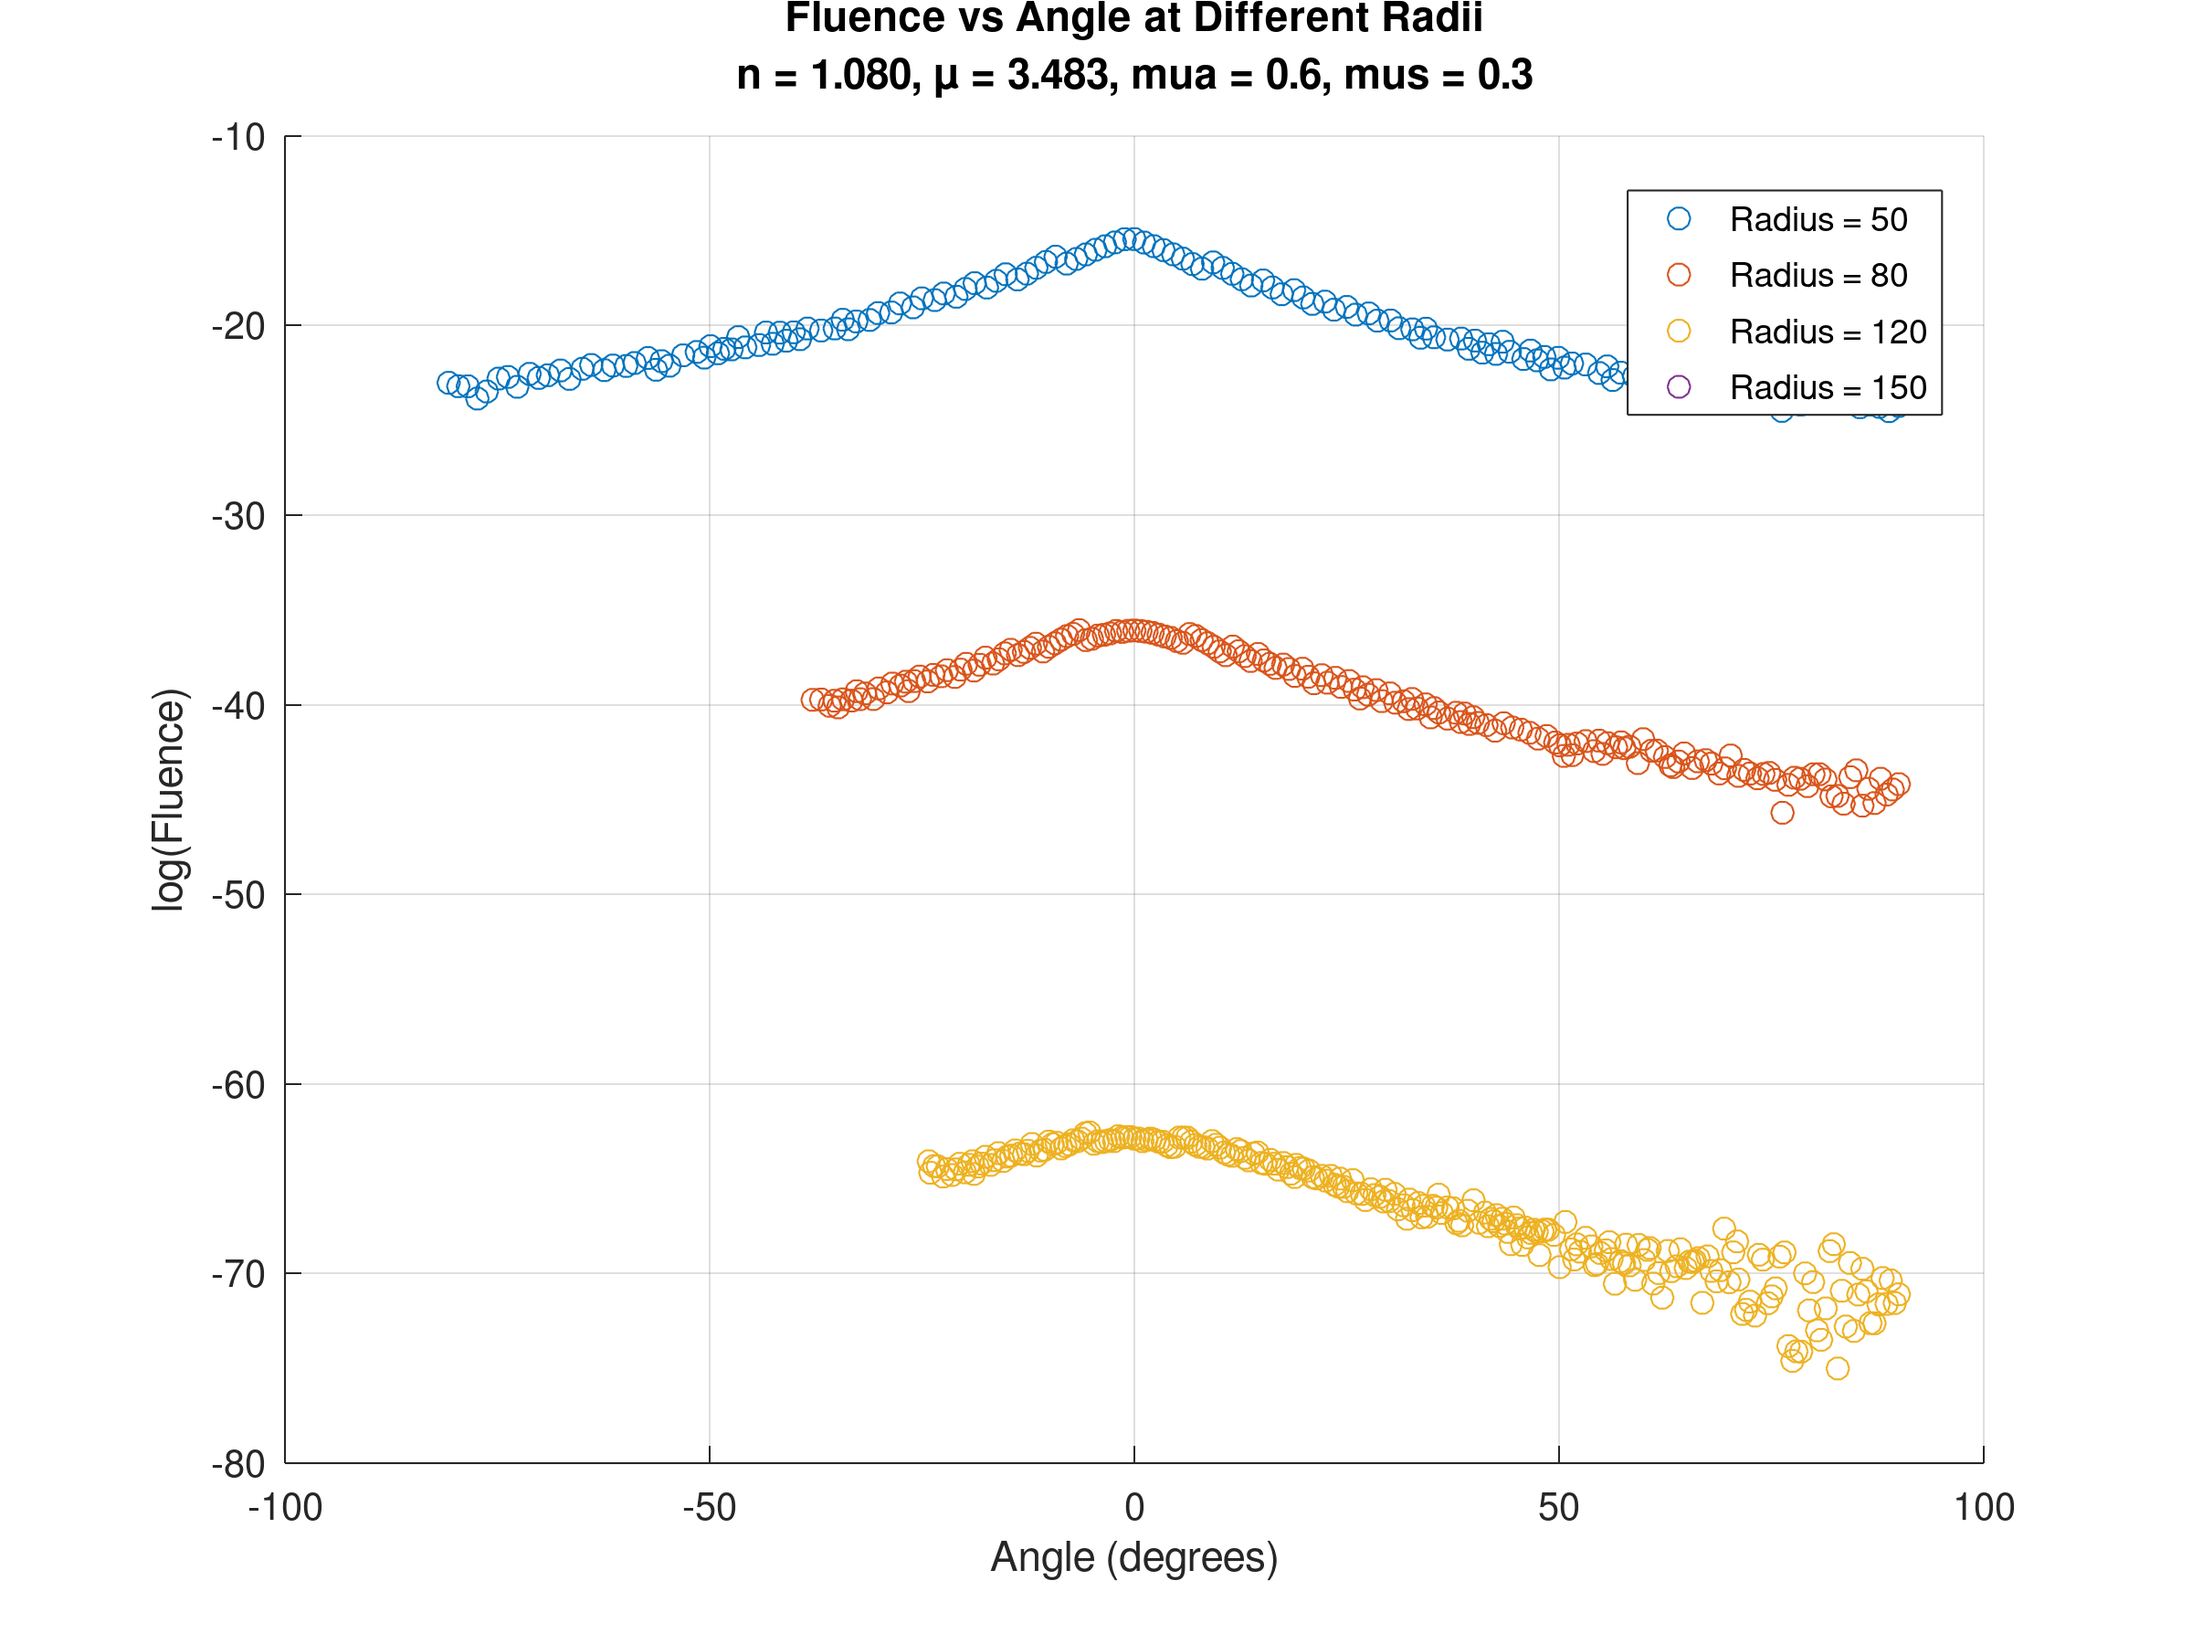
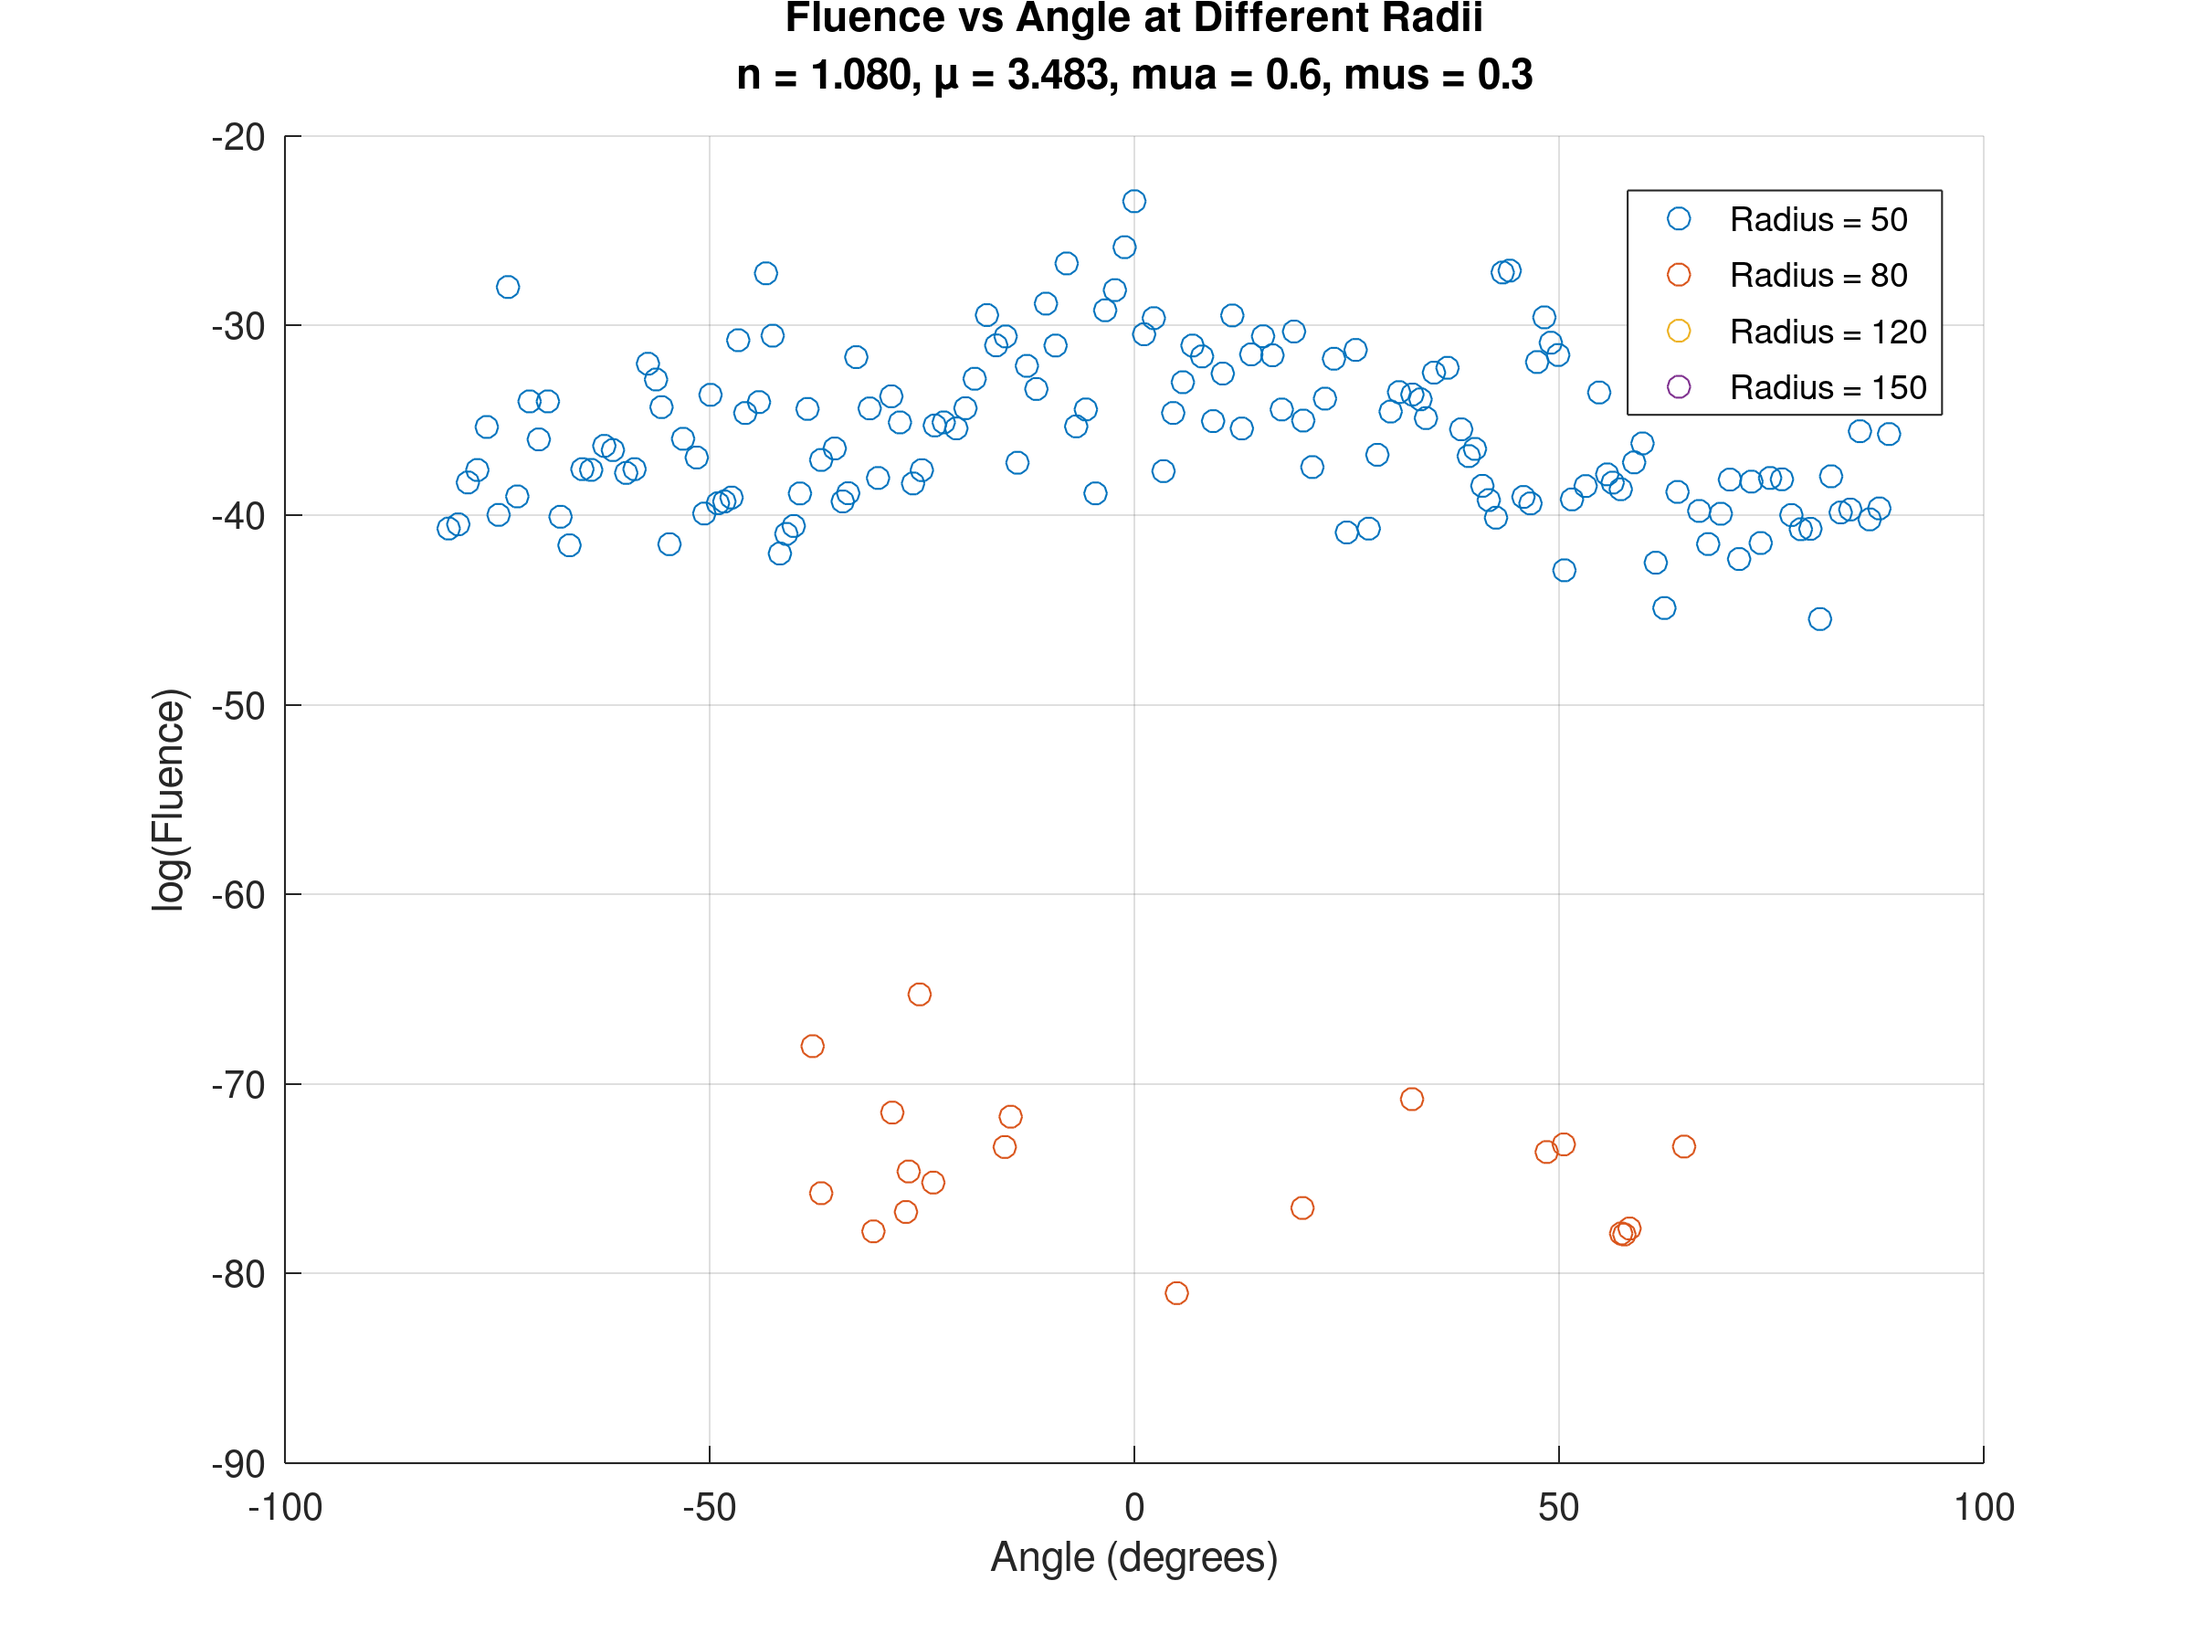
additions

diff --git a/MonteCarlo/MonteCarloProj/FornierForandExample2.m b/MonteCarlo/MonteCarloProj/FornierForandExample2.m
@@ -26,7 +26,7 @@ rand_seed = randi([1 2^31-1],1,1);
 %%%%%%%%%%%%%%%%% Volume Parameters %%%%%%%%%%%%%%%%%%%%%%%%%%%%%%%
 %Below are required
 cfg.vol =  uint8(volume); %Defines the size of the volume
-cfg.prop = [0 0 1 1; 0.6 0.3 0 1.37];  % Defines the medium properties [mua mus g n], the first one is backround, it is often just set to [0 0 1 1], and does not do anything
+cfg.prop = [0 0 1 1; 0.1 0.3 0 1.37];  % Defines the medium properties [mua mus g n], the first one is backround, it is often just set to [0 0 1 1], and does not do anything
 
 %%%%%%%%%%%%%%%%% Source Parameters %%%%%%%%%%%%%%%%%%%%%%%%%%%%%%%
 %Below are required
@@ -83,10 +83,10 @@ xlabel('Angle (degrees)');
 ylabel('log(Fluence)');
 title({
     'Fluence vs Angle at Different Radii'
-    'n = 1.080, \mu = 3.483, mua = 0.6, mus = 0.3'
+    'n = 1.080, \mu = 3.483, mua = 0.1, mus = 0.3'
 });
 legend('show');
 grid on;
 hold off;
 
-print('Radii_50_80_120_150_n1080_u3483.png', '-dpng', '-r300');
+print('HGtest.png', '-dpng', '-r300');
